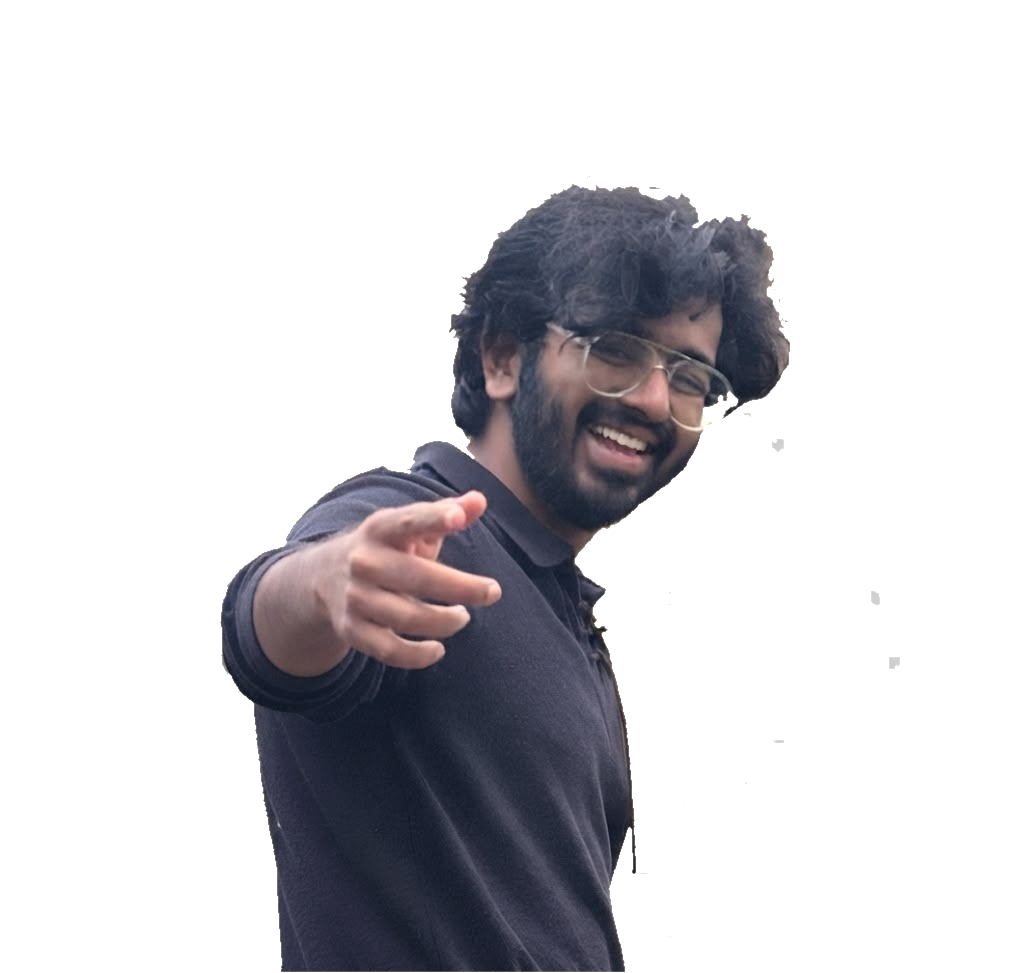
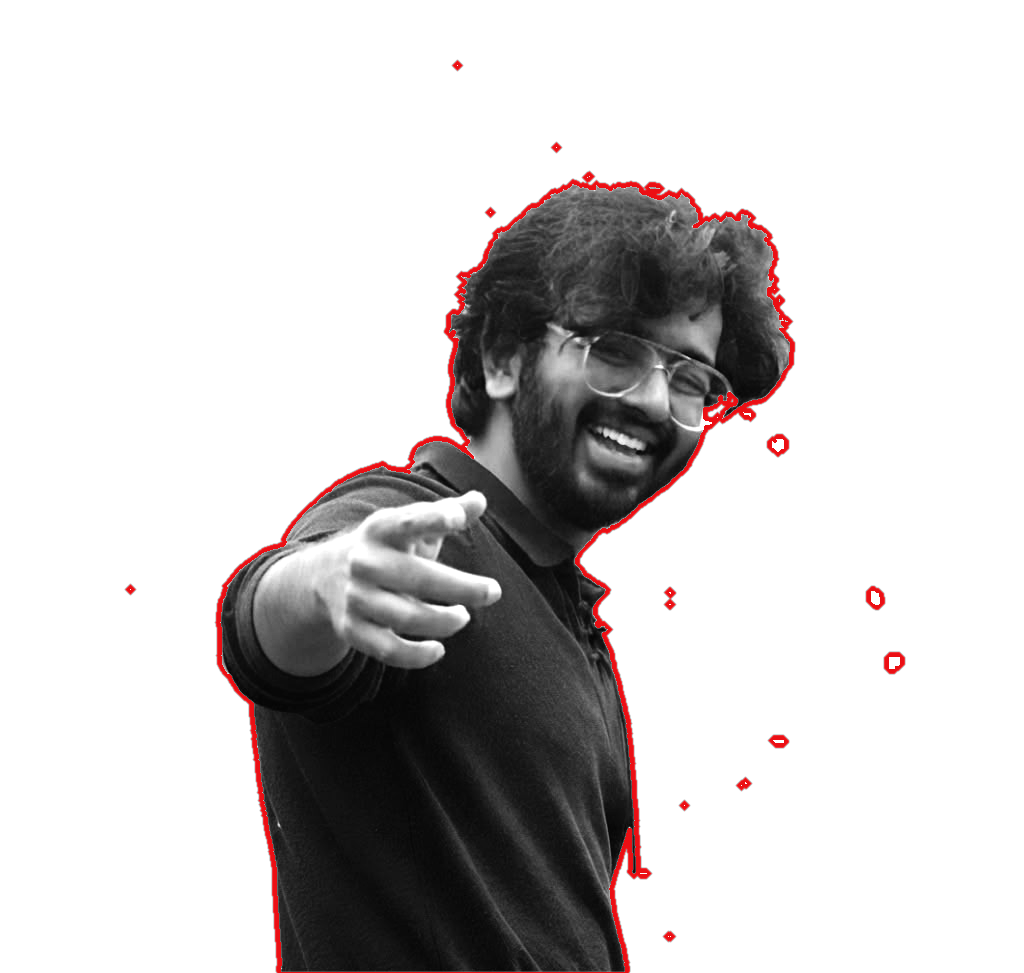
feat(hero): stylize center cutout portrait into high-contrast comic black and white with vibrant red outline

diff --git a/src/components/sections/HeroProfile.tsx b/src/components/sections/HeroProfile.tsx
@@ -46,14 +46,14 @@ export default function HeroProfile() {
             aria-hidden="true"
           />
 
-          {/* User Portrait Cutout (Brought up & enlarged with heroic swagger) */}
+          {/* User Portrait Cutout (Comic Stylized: Black & White with Red Outline) */}
           <Image
-            src="/profile-pointing.webp"
+            src="/profile-pointing-comic.webp"
             alt="Abhinay Musku"
             width={1024}
             height={973}
             priority
-            className="relative z-10 w-auto h-full object-contain object-bottom scale-[1.24] sm:scale-[1.28] origin-bottom -translate-y-8 sm:-translate-y-12 filter contrast-105 drop-shadow-[0_15px_30px_rgba(0,0,0,0.8)] select-none pointer-events-none"
+            className="relative z-10 w-auto h-full object-contain object-bottom scale-[1.24] sm:scale-[1.28] origin-bottom -translate-y-8 sm:-translate-y-12 filter drop-shadow-[0_0_25px_rgba(225,6,0,0.55)] drop-shadow-[0_15px_30px_rgba(0,0,0,0.9)] select-none pointer-events-none"
           />
         </div>
 
